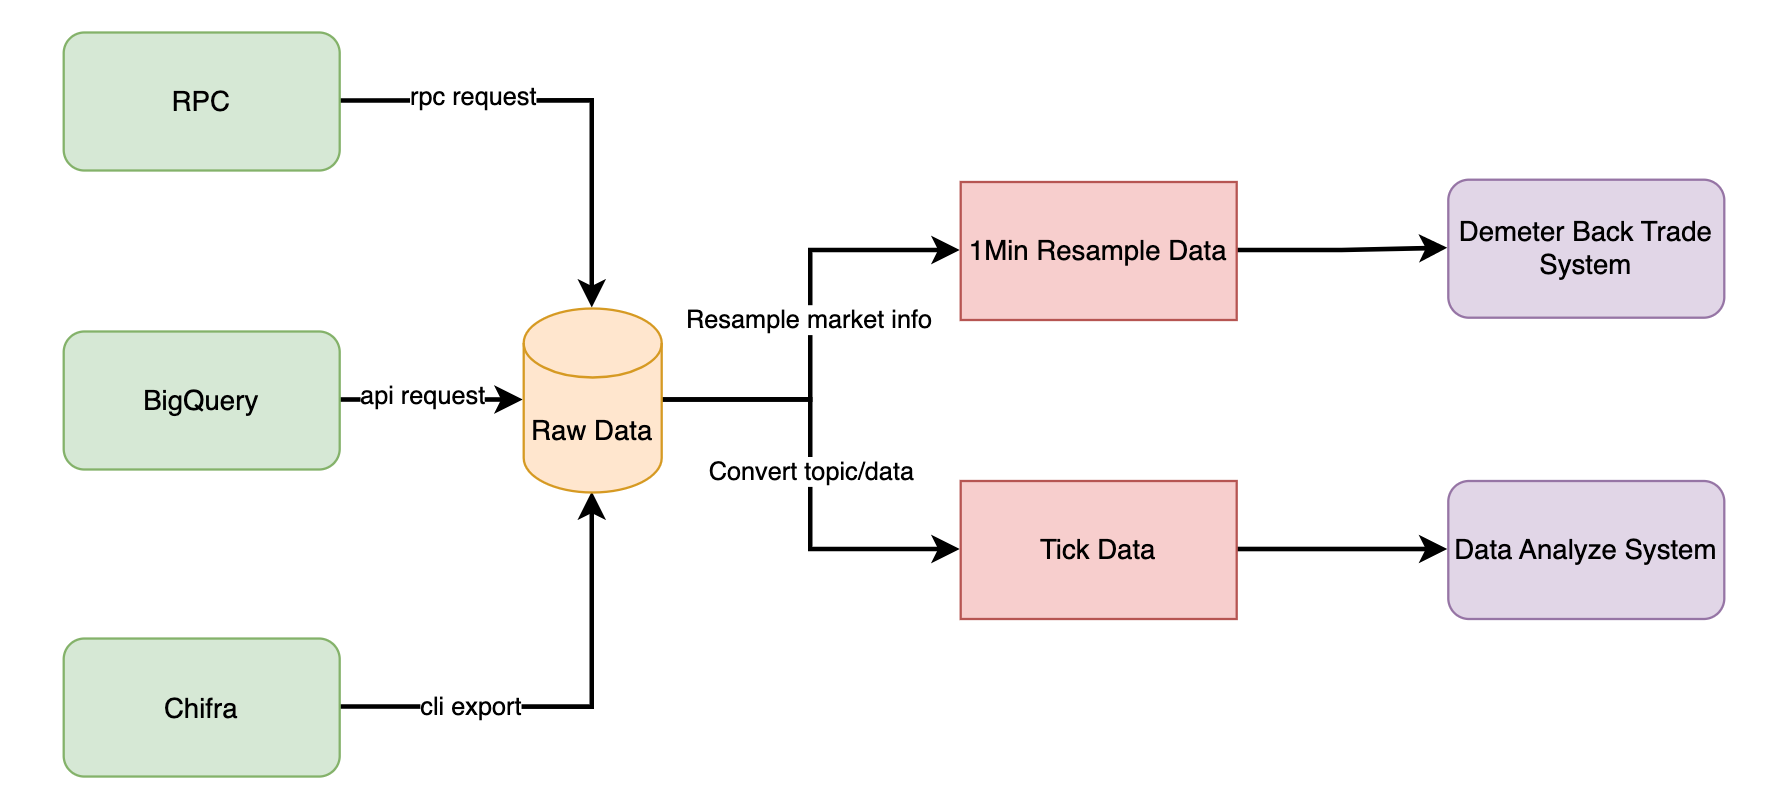
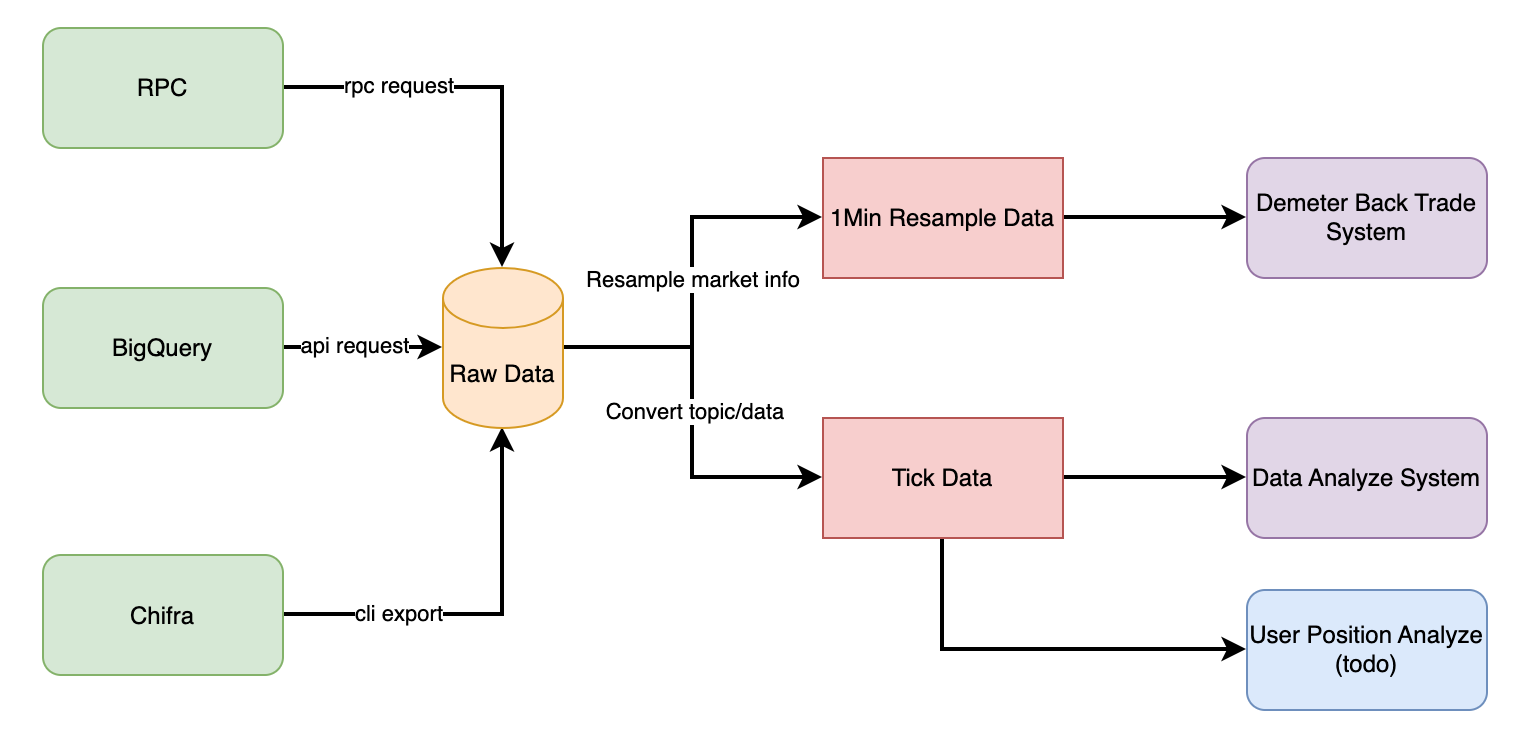
refill document about demeter-fetch system

Changed region(s): [[0.0, 0.0305, 0.9688, 0.9761], [0.8125, 0.366, 0.9688, 0.3966], [0.0938, 0.0915, 0.125, 0.1525]]

diff --git a/README.md b/README.md
@@ -2,15 +2,19 @@
 
 ## 1 What's this:
 
-Download uniswap pool event log, and convert it to different format for several purpose.
+Demeter-fetch system can fetch uniswap pool/proxy event log data from RPC/BigQuery/TrueBlocks Chifra according to user needs, and it save downloaded data to **Raw Data**, then user can generate **Tick Data** or **1Min Resample Data**, They can be used in **Demeter** back trade system and data analyze on LP about position, user investment behavior etc.
+
+Also can convert local raw file to tick/minute data for Demeter or other data analyze work.
 
 Demeter-fetch support download from the following source:
 
 * RPC: query data from rpc interface of any Ethereum like chain node.
-* Google BigQuery: just support Ethereum and Polygon, and cost a little dollar, but will fetch faster than rpc
-* TureBlocks Chifra: just support Ethereum data index
+* Google BigQuery: just support Ethereum and Polygon, and cost a little dollar, but will fetch faster than rpc.
+* TureBlocks Chifra: just support Ethereum data index.
 
-Usually, query a pool logs of a day form bigquery will cost 10 seconds. while query from node will cause several minutes.
+Usually, query a pool logs of a day form BigQuery will cost 10 seconds. while query from node will cause several minutes.
+
+One day time cost can get from benchmark section, and **BigQuery** is most recommend.
 
 Demeter-fetch support export data in following type:
 
@@ -18,9 +22,10 @@ Demeter-fetch support export data in following type:
 * minute: process uniswap data and resample it to minute, [sample](sample%2Fpolygon-0x45dda9cb7c25131df268515131f647d726f50608-2022-01-05.minute.csv). Demeter use data in this type. 
 * tick: process uniswap data, each log will be decoded and listed. [sample](sample%2Fpolygon-0x45dda9cb7c25131df268515131f647d726f50608-2022-01-05.tick.csv)
 
+The detail of field for the file can be found in section 4.
+
 ### 1.1 Workflow
 ![workflow.png](workflow.png)
-Demeter-fetch system can fetch data from RPC/BigQuery/TrueBlocks Chifra according to user needs, and it save downloaded data to **Raw Data**, then user can generate **Tick Data** or **1Min Resample Data**, They can be used in **Demeter** back trade system and data analyze on LP about position, user investment behavior etc.
 
 ## 2 How to use
 
@@ -57,61 +62,6 @@ demeter-fetch is not available on Pypi, you need to clone this repo, and run loc
 ### 2.4 Download
 
 Create a target folder to store downloaded files, then prepare a config.toml file according to [config-sample.toml](config-sample.toml)
-```toml
-[from]
-chain = "polygon"
-datasource = "rpc" # big_query or rpc or file or chifra
-dapp_type = "uniswap" # uniswap or aave
-#http_proxy = "http://localhost:8080" # if network is bad, try use proxy
-
-[from.uniswap]
-pool_address = "0x9B08288C3Be4F62bbf8d1C20Ac9C5e6f9467d8B7"
-
-[from.aave]
-tokens = [# address of erc20 token which avialable on aave
-    "0x7ceb23fd6bc0add59e62ac25578270cff1b9f619",
-    "0x2791bca1f2de4661ed88a30c99a7a9449aa84174"
-]
-
-[from.big_query] # if you want to download from big query, use this section, from.rpc/from.file will be ignored
-start = "2022-3-16"
-end = "2022-3-17"
-auth_file = "./auth/airy-sight-361003-d14b5ce41c48.json" # google bigquery auth file
-
-[from.rpc] # If you want to download from rpc interface, use this section, from.big_query/from.file will be ignored
-end_point = "https://localhost:8545"
-#auth_string = "Basic Y3J0Yzo3NKY3TjY" # auth string for rpc end point
-start = "2022-3-16"
-end = "2022-3-17"
-#batch_size = 500 # default is 500
-#keep_tmp_files = false
-ignore_position_id = false # if set to true, will not download uniswap proxy logs to get position_id. will save a lot of time
-etherscan_api_key = "some_api_key" #
-
-[from.file] # If you already have .raw.csv files, just want to convert them to tick/minute file, then use this section.
-#  either file_path or folder
-files = [# Path of files which you need to convert
-    "",
-    ""
-]
-folder = "" # Will convert all raw files in this folder.
-
-[from.chifra]
-# csv exported by chifra, eg. "chifra export --logs --fmt csv --first_block {start_height} --last_block {end_height} {contract_addr} > {output_file_name}.csv"
-# please ensure start_height is the beginning of the day and end_height is the end of the day, you can query height from day range by "python main.py date_to_height"
-file_path = "" # chifra pool file export path
-ignore_position_id = false # Just for uniswap, if set to true, will not download uniswap proxy logs to get position_id. will save a lot of time
-proxy_file_path = "" # chifra proxy file export path, Just for uniswap, only required when ignore_position_id=False
-#start = "2023-11-1"
-#end = "2023-11-5"
-#etherscan_api_key = "" # must fill if query etherscan for block, proxy must set.
-
-[to] # decide output
-type = "tick" # minute or tick or raw
-save_path = "./sample-data"
-multi_process = false # process in multi_process, defaut: False
-
-```
 
 then execute:
 
